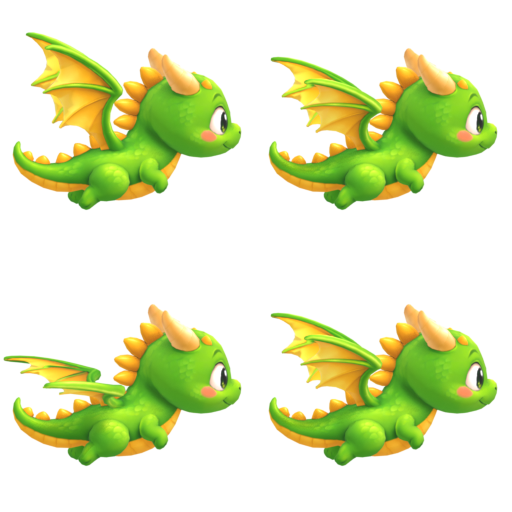
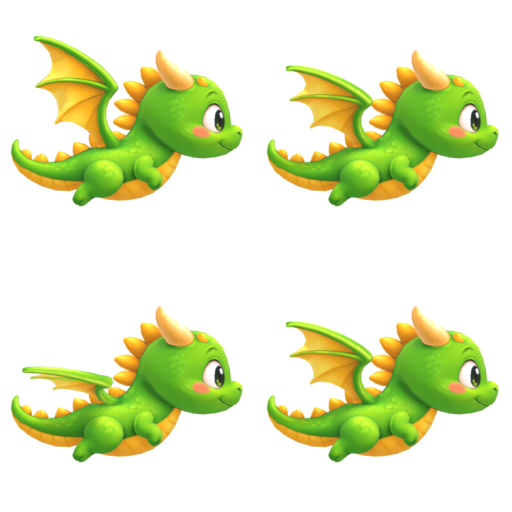
Show the JUNGLE dragon in pure side profile
The owner found the dragon looked slightly twisted. Both cameras stood a
little ahead of and above the side, turning the dragon toward the player:
the live 3D viewport's and the one tools/rig_jungle_dragon.py renders the
sprites with. Both now look straight from the left, along the line of
flight, which the owner picked over a full face-on view.

The sprites were re-rendered from the new angle so the mode-select card
and the popups still match the live model. Their bbox centres moved
slightly, and MODE_DRAW_OFFSET_* for JUNGLE follow the numbers the script
printed.

check_character_3d, check_unicorn_assets, check_slider and check_hearts
pass. Captures of the live viewport show the profile through the flap and
in both faces.

diff --git a/tools/rig_jungle_dragon.py b/tools/rig_jungle_dragon.py
@@ -48,7 +48,9 @@ CELL = 256
 # about 237px, so the character keeps its on-screen size, with a few pixels
 # to spare for the pitched faces (12 degrees of nose-down touched the edge).
 ORTHO = 1.06
-CAM_DIR = mathutils.Vector((-1.0, 0.18, 0.12)).normalized()  # from the left, a little ahead and above
+# Straight from the left, a pure side profile: the owner found the earlier
+# slightly-ahead-and-above angle read as the dragon being twisted (2026-11-25).
+CAM_DIR = mathutils.Vector((-1.0, 0.0, 0.0))
 CAM_TARGET = mathutils.Vector((0.0, -0.006, -0.03))
 
 ROOT_FRONT = mathutils.Vector((0.055, 0.02, -0.11))
